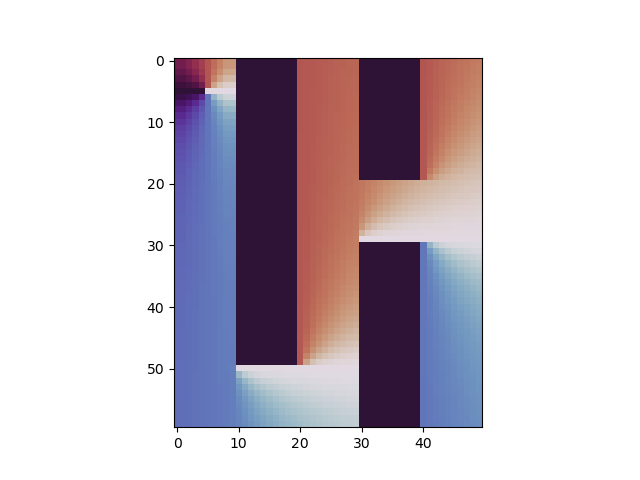
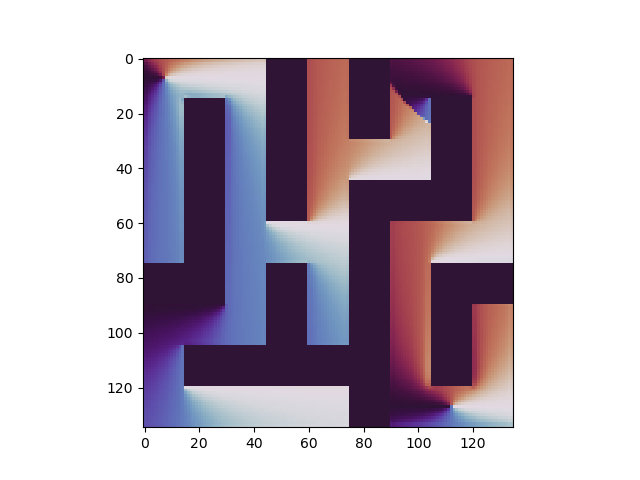
change: Pygame -> Tkinter

diff --git a/simulation.py b/simulation.py
@@ -1,6 +1,5 @@
 import numpy as np
-import pygame
-import pygame.gfxdraw
+import tkinter as tk
 import matplotlib
 import matplotlib.cm
 import typing
@@ -11,10 +10,15 @@ from grid import Grid
 
 
 class Simulation:
+    FRAMERATE: int = 60
     SPEED: float = 5.
+    RADIUS: int = 5
 
-    clock: pygame.time.Clock = pygame.time.Clock()
-    window: pygame
+    window: tk.Tk
+    canvas: tk.Canvas
+
+    ovalId: typing.Optional[int] = None
+    imageId: typing.Optional[int] = None
 
     posX: float = 0.
     posY: float = 0.
@@ -29,22 +33,24 @@ class Simulation:
 
     cmap: typing.Any
 
-    background: typing.Dict
+    background: tk.PhotoImage
 
     @classmethod
     def run(cls, grid: Grid, ratio: float):
-        pygame.init()
-
         cls.grid = grid
 
         cls.width = int(grid.nbCols * ratio)
         cls.height = int(grid.nbRows * ratio)
+        cls.ratio = ratio
 
-        cls.window = pygame.display.set_mode((cls.width, cls.height))
+        cls.window = tk.Tk()
+        cls.canvas = tk.Canvas(cls.window, bg="white", width=cls.width, height=cls.height)
 
         cls.cmap = matplotlib.cm.get_cmap("twilight")
 
-        cls.background = {(r, c): 0 for r in range(grid.nbRows) for c in range(grid.nbCols)}
+        print("Création de l'image")
+
+        cls.background = tk.PhotoImage(width=cls.width, height=cls.height)
         for col in range(grid.nbCols):
             for row in range(grid.nbRows):
                 idx = grid.getIndex(row, col)
@@ -56,33 +62,64 @@ class Simulation:
                     r, g, b, a = cls.cmap(angle / 360.)
                     color = (int(r * 255), int(g * 255), int(b * 255))
 
-                cls.background[(row, col)] = color
+                pos = (col, row)
+                cls.background.put("#%02x%02x%02x" % tuple(color), pos)
 
-        running = True
-        while running:
-            for event in pygame.event.get():
-                if event.type == pygame.QUIT:
-                    running = False
+        print("Zoom de l'image")
 
-            for col in range(grid.nbCols):
-                for row in range(grid.nbRows):
-                    rect = pygame.Rect((col * ratio, row * ratio), (ratio, ratio))
-                    pygame.draw.rect(cls.window, cls.background[(row, col)], rect)
+        cls.background = cls.background.zoom(ratio, ratio)
 
-            pygame.gfxdraw.filled_circle(cls.window, int(cls.posX), int(cls.posY), 5, (255, 0, 0))
+        cls.canvas.bind("<Button-1>", cls.onClick)
 
-            if pygame.mouse.get_pressed()[0]:
-                cls.posX, cls.posY = pygame.mouse.get_pos()
-                cls.speedX = cls.speedY = 0
-                cls.speedX = (random.randint(0, 100) - 50) / 100
-                cls.speedY = (random.randint(0, 100) - 50) / 100
+        print("Affichage")
 
-            cls.moveDot()
+        cls.onClick(None)
 
-            pygame.display.flip()
-            cls.clock.tick(60)
+        cls.canvas.pack()
+        cls.update()
+        cls.window.mainloop()
 
-        pygame.quit()
+    @classmethod
+    def onClick(cls, evt: typing.Optional):
+        if evt is None:
+            r = c = 0
+
+            for i in range(100):
+                r, c = random.randrange(cls.grid.nbRows), random.randrange(cls.grid.nbCols)
+
+                if cls.grid.getIndex(r, c) is not None:
+                    break
+
+            cls.posX = (c / cls.grid.nbCols) * cls.width
+            cls.posY = (r / cls.grid.nbRows) * cls.height
+        else:
+            cls.posX, cls.posY = evt.x, evt.y
+
+        cls.speedX = cls.speedY = 0
+        alpha = random.randrange(int(math.pi * 100)) / 100
+        cls.speedY, cls.speedX = math.sin(alpha), math.cos(alpha)
+
+    @classmethod
+    def update(cls):
+        cls.moveDot()
+
+        if cls.imageId is not None:
+            cls.canvas.delete(cls.imageId)
+
+        cls.imageId = cls.canvas.create_image(0, 0, image=cls.background, anchor=tk.NW)
+
+        if cls.ovalId is not None:
+            cls.canvas.delete(cls.ovalId)
+
+        cls.ovalId = cls.canvas.create_oval(
+            cls.posX - cls.RADIUS,
+            cls.posY - cls.RADIUS,
+            cls.posX + cls.RADIUS,
+            cls.posY + cls.RADIUS,
+            fill="blue"
+        )
+
+        cls.window.after(math.ceil(1000. / cls.FRAMERATE), cls.update)
 
     @classmethod
     def moveDot(cls):

diff --git a/main.py b/main.py
@@ -2,23 +2,32 @@ from grid import Grid
 from simulation import Simulation
 
 
-THICKNESS = 10
+THICKNESS = 15
+ZOOM = 6
+EULER_TIME = 16.
 
-START_TOKEN = 'a'
-END_TOKEN = 'b'
+START_TOKEN = '@'
+END_TOKEN = '#'
 
 labyrinth = [
-    "a* *b",
-    " * * ",
-    " *   ",
-    " * * ",
-    " * * ",
-    "   * ",
+    "@  * *   ",
+    " * * * * ",
+    " * *   * ",
+    " * * *** ",
+    " *   *   ",
+    "** * * **",
+    "   * * * ",
+    " ***** * ",
+    "     * @ ",
 ]
 
 if __name__ == "__main__":
+    print("Création de la grille")
+
     G = Grid(len(labyrinth) * THICKNESS, len(labyrinth[0]) * THICKNESS)
     V = [0.] * G.size()
+
+    print("Remplissage de la grille")
 
     for row in range(len(labyrinth)):
         for col in range(len(labyrinth[row])):
@@ -32,11 +41,15 @@ if __name__ == "__main__":
                     for j in range(THICKNESS):
                         G.unset(row * THICKNESS + i, col * THICKNESS + j)
 
-    V = G.explicitEuler(V, 2., 0.01, True)[-1]
+    print("Calcul de Euler")
+
+    V = G.explicitEuler(V, EULER_TIME, 0.01, True)[-1]
+
+    print("Calcul des dérivées")
 
     G.reloadValues(V)
 
     G.showValues()
     G.showDerivatives()
 
-    Simulation.run(G, 10)
+    Simulation.run(G, ZOOM)
